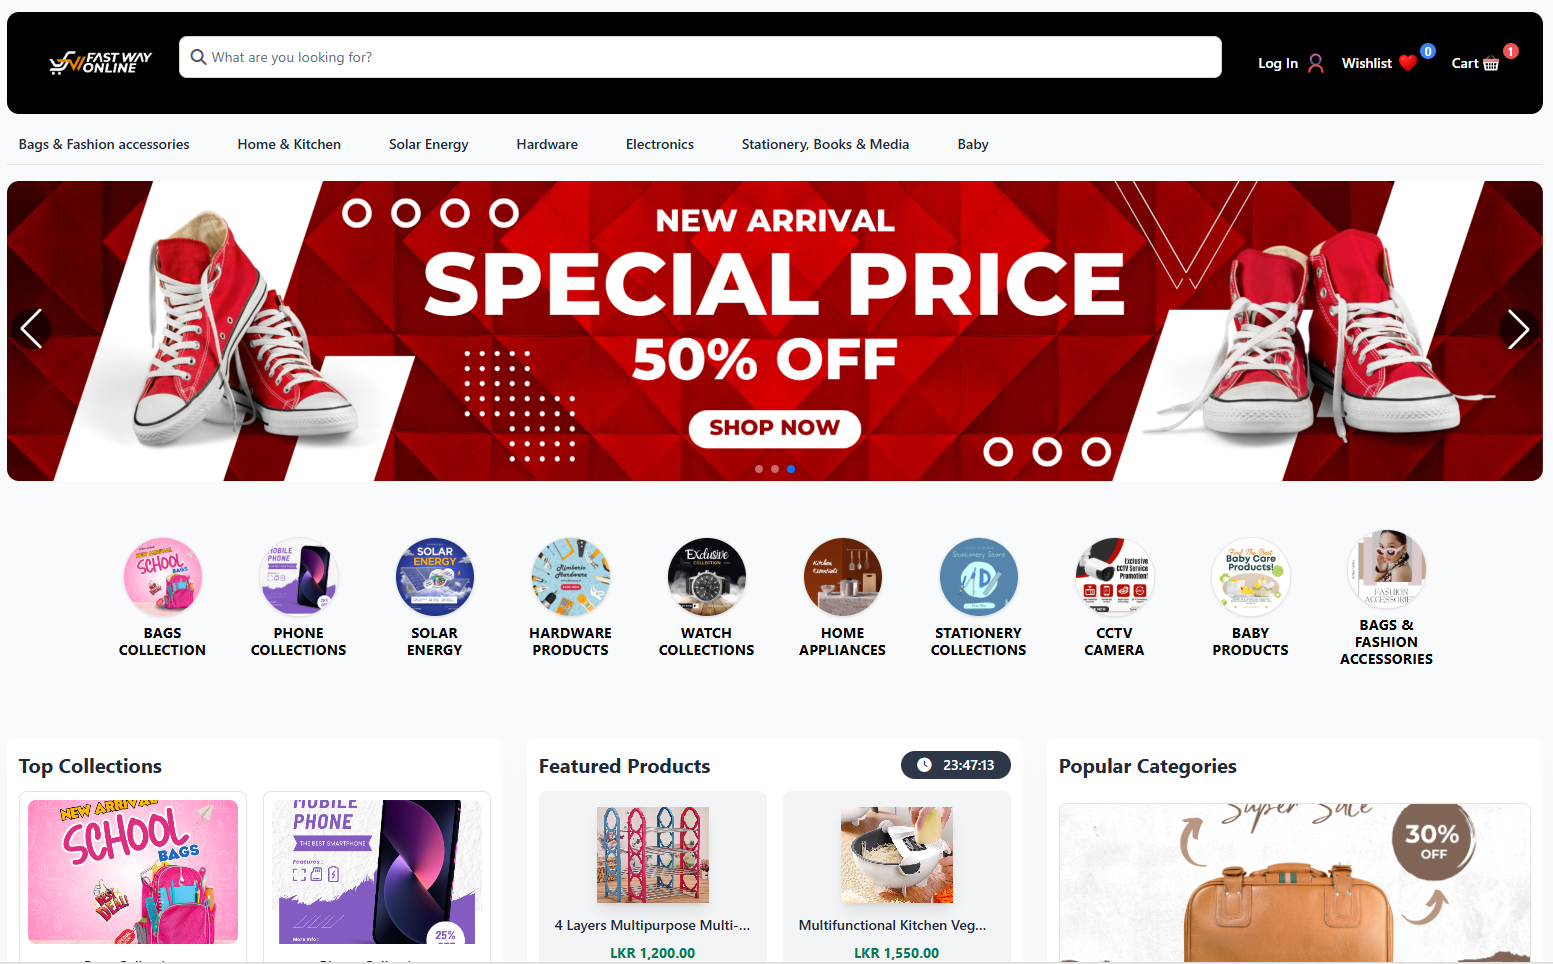
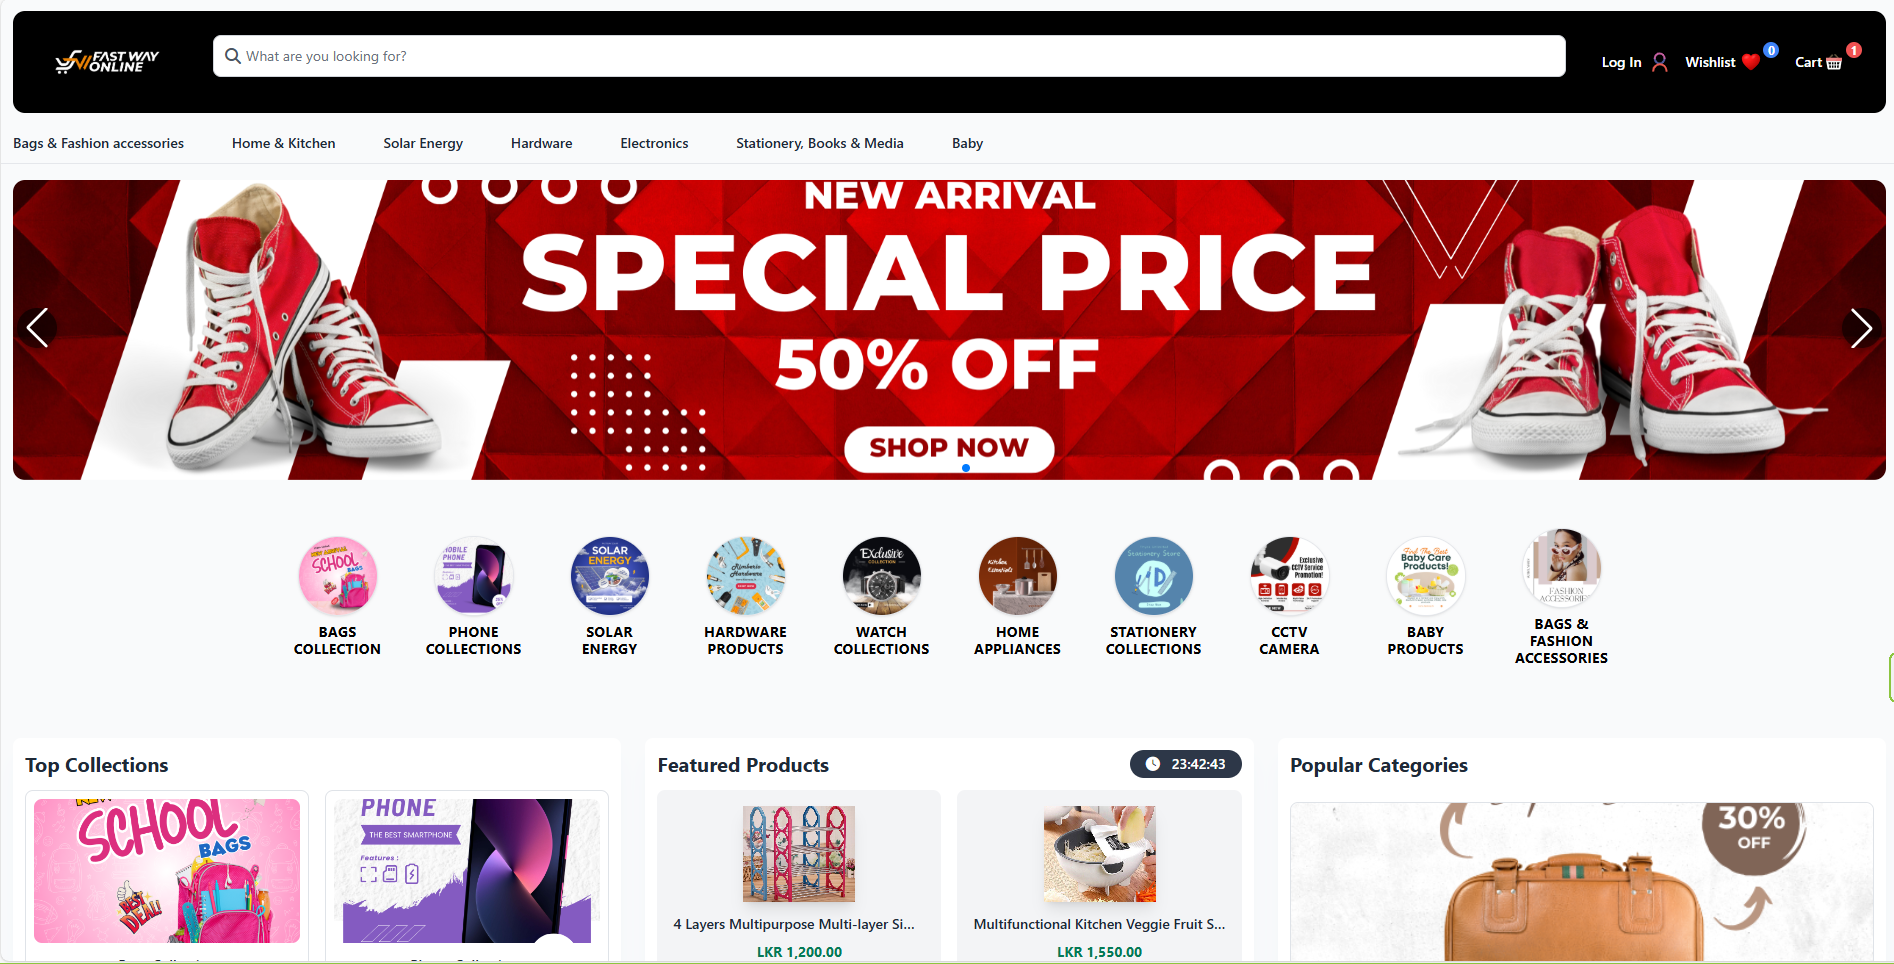
updated

diff --git a/src/App.vue b/src/App.vue
@@ -17,7 +17,7 @@
         <div class="absolute top-1/2 left-1/2 transform -translate-x-1/2 -translate-y-1/2 w-[600px] h-[600px] bg-blue-300/10 rounded-full blur-3xl animate-pulse" style="animation-delay: 1400ms;"></div>
       </div> -->
 
-      <div class="relative z-10 max-w-6xl mx-auto text-center">
+      <div class="relative z-10 max-w-6xl mx-auto text-center 2xl:max-w-7xl">
              
         <!-- Main Heading -->
         <!-- <h1 class="mb-10 text-6xl font-bold leading-tight tracking-tight text-white md:text-[120px] drop-shadow-lg">
@@ -25,8 +25,8 @@
         </h1> -->
         
         <!-- Tagline -->
-        <h1 class="mb-8 text-4xl font-bold leading-tight text-white md:text-7xl drop-shadow-lg">
-          Web Development Portfolio
+        <h1 class="mb-8 text-3xl font-bold leading-tight text-white md:text-5xl 2xl:text-6xl drop-shadow-lg">
+          Nexsign Global Web Development Portfolio
         </h1>
         
         <p class="max-w-3xl ytext mx-auto text-[16px] leading-relaxed text-white/90 md:text-[20px] 2xl:text-xl drop-shadow">
@@ -52,7 +52,7 @@
           class="overflow-hidden transition-all duration-500 bg-white border border-gray-100 rounded-sm shadow-lg group hover:shadow-2xl hover:-translate-y-2"
         >
           <!-- Project Image -->
-          <div class="relative p-2 overflow-hidden aspect-video">
+          <div class="relative p-2 overflow-hidden">
             <img 
               :src="project.image" 
               :alt="project.title"
@@ -110,12 +110,12 @@
         </div>
 
         <div>
-          <p class="flex items-center gap-1 text-gray-400"><Mail :size="16" />infog@nexsignglobal.com</p>
+          <p class="flex items-center gap-1 text-gray-400"><Mail :size="16" />info@nexsignglobal.com</p>
           <a
             href="https://nexsignglobal.com"
             target="_blank"
             rel="noopener noreferrer"
-            class="inline-flex items-center gap-2 text-[#3b9dff] hover:text-[#1e7fca] transition-colors mt-2"
+            class="inline-flex items-center gap-2 text-[#3b9dff] hover:text-[#1e7fca] transition-colors mt-"
           >
             www.nexsignglobal.com
             <ExternalLink :size="16" />
